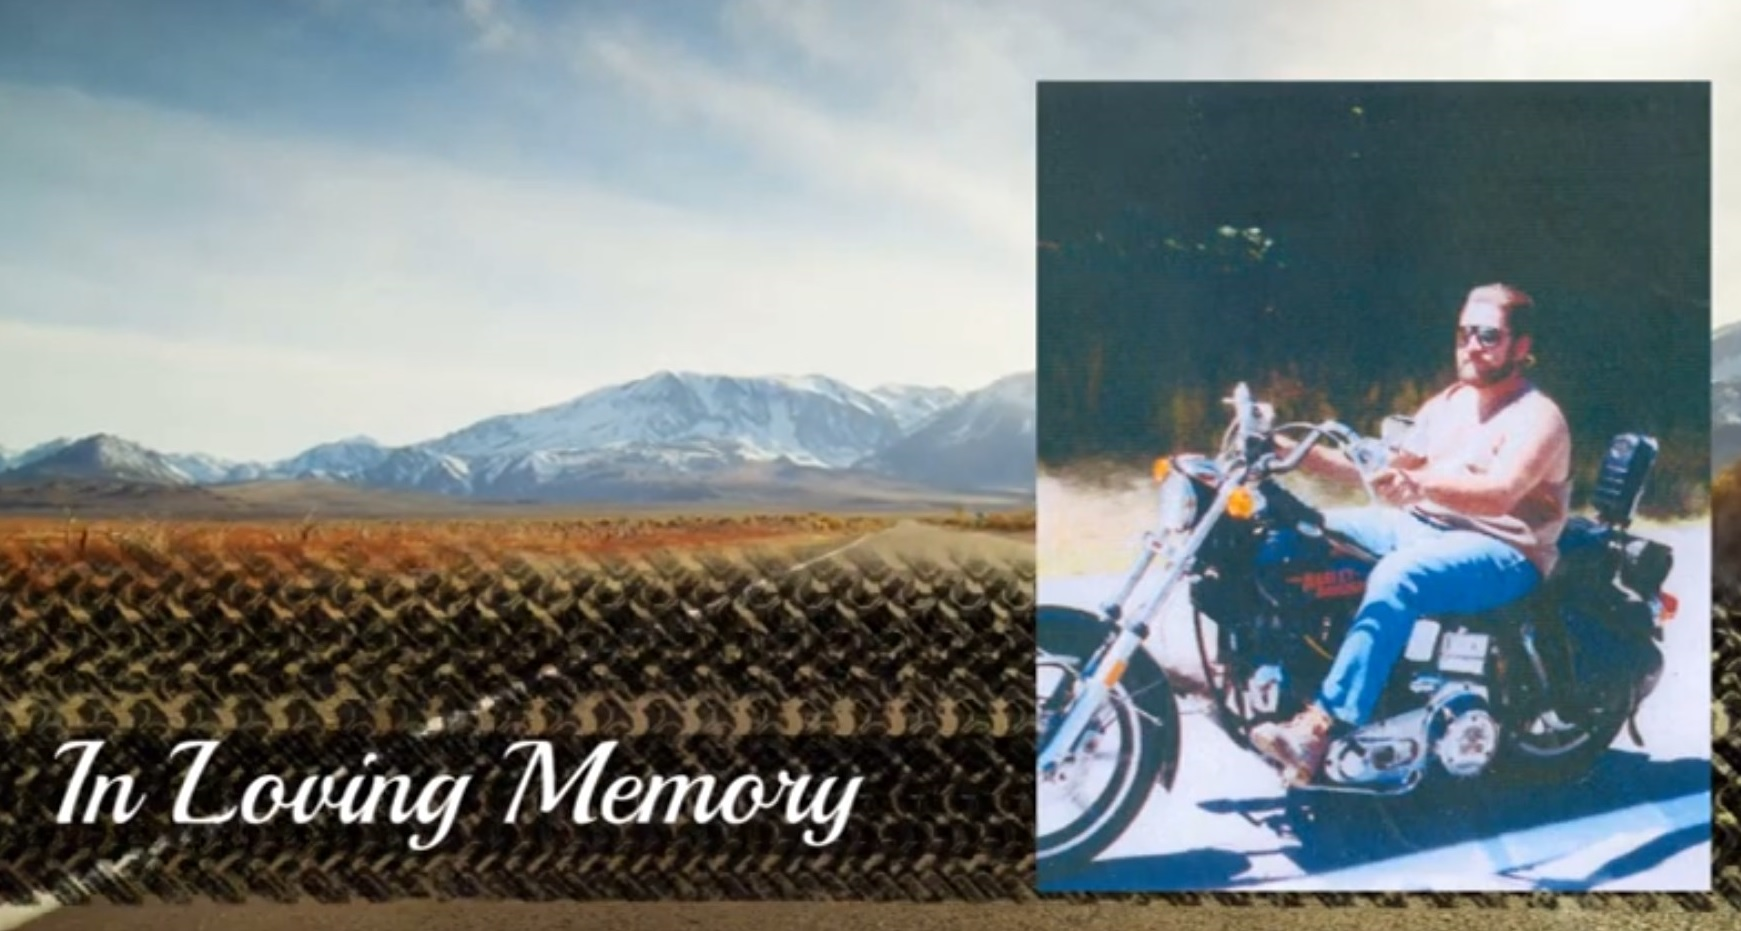
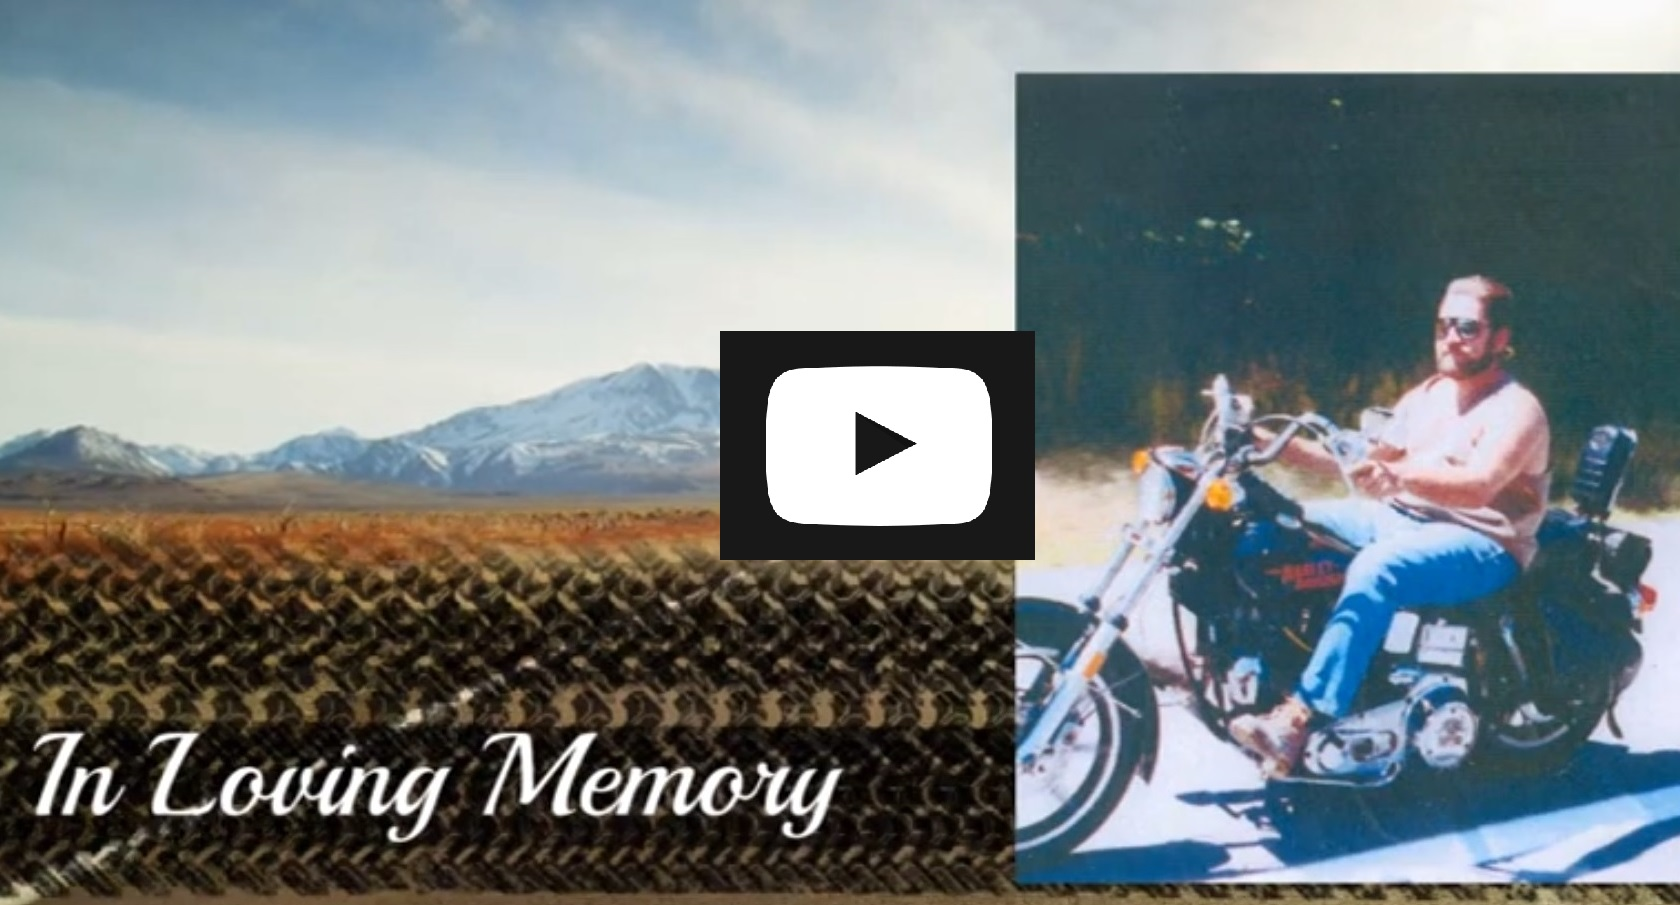
videimage update

diff --git a/videos.html b/videos.html
@@ -77,8 +77,12 @@
                         <div class="section-head text-center col-md-12 animate-box" data-animate-effect="fadeInUp">
                             <h4>Video Gallery</h4>
                             <hr>
-                            <iframe width="100%" height="473" src="https://www.youtube.com/embed/JHnRexdfUFI?controls=0" frameborder="0" allow="accelerometer; autoplay; encrypted-media; gyroscope; picture-in-picture" allowfullscreen></iframe>                        </div>
-                            <br>
+                            <a href="https://www.youtube.com/watch?v=JHnRexdfUFI" target="_blank"> 
+                                <img class="img-fluid" src="images/gallery/video-memory.jpg" alt="">
+                            </a>
+                            <!-- <iframe width="100%" height="473" src="https://www.youtube.com/embed/JHnRexdfUFI?controls=0" frameborder="0" allow="accelerometer; autoplay; encrypted-media; gyroscope; picture-in-picture" allowfullscreen></iframe>-->
+                        </div>
+                            <hr><br><br><br>
                         <!-- IMPORTANT: Some functionality (ajax, iframes, etc) will not work when you're opening local file directly on your browser, the code must be running on a web server. SOURCE: https://fancyapps.com/fancybox/3/docs/ -->
                         <div class="col-6 col-lg-6 mb-40 animate-box" data-animate-effect="fadeInUp">
                             <a data-fancybox="" href="https://www.youtube.com/watch?v=ay-cvN85R-c"> <img class="img-fluid" src="images/gallery/video-ferris-wheel.jpg" alt="">
@@ -103,12 +107,6 @@
                                 <p><span class="fa fa-play"></span></p>
                             </a>
                             <h5>Duck Song</h5>
-                        </div>
-                        <div class="col-6 col-lg-6 mb-40 animate-box" data-animate-effect="fadeInUp">
-                            <a data-fancybox="" href="https://www.youtube.com/watch?v=JHnRexdfUFI"> <img class="img-fluid" src="images/gallery/video-memory.jpg" alt="">
-                                <p><span class="fa fa-play"></span></p>
-                            </a>
-                            <h5>Video</h5>
                         </div>
                     </div>
                 </div>
